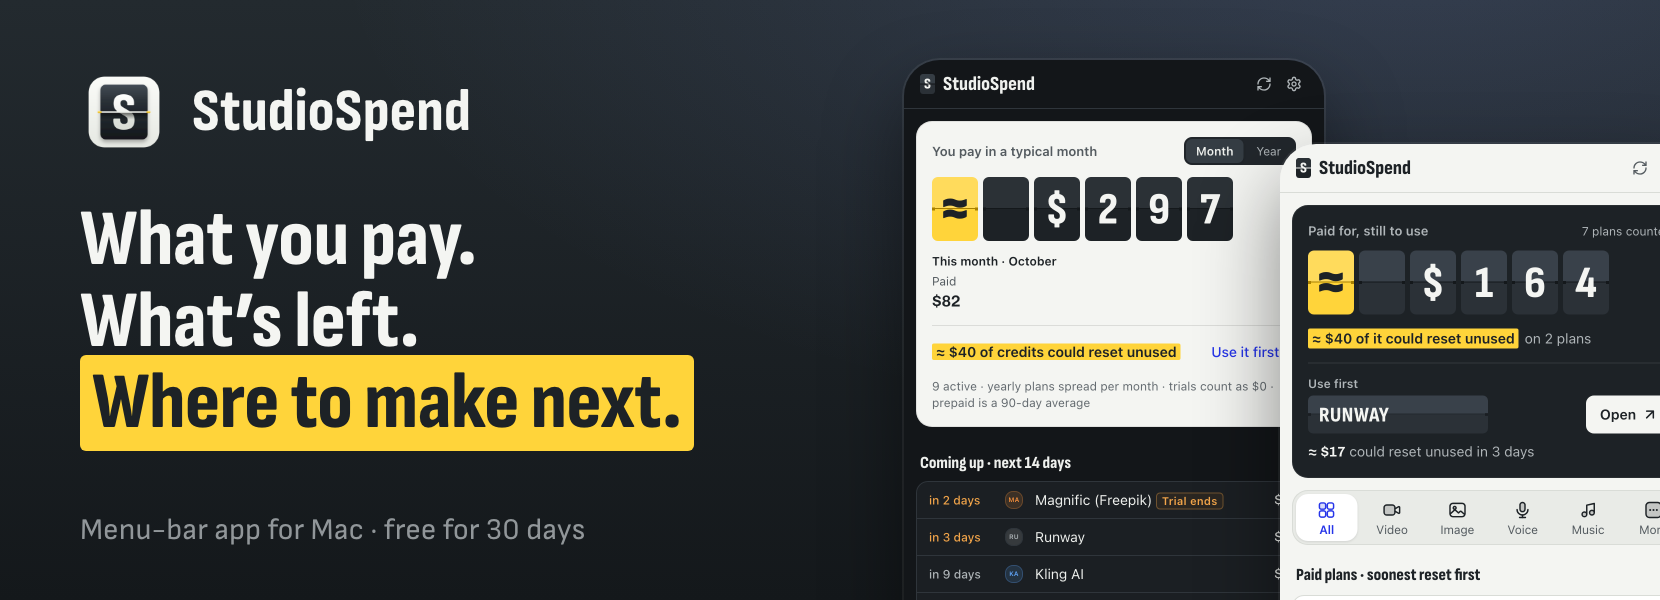
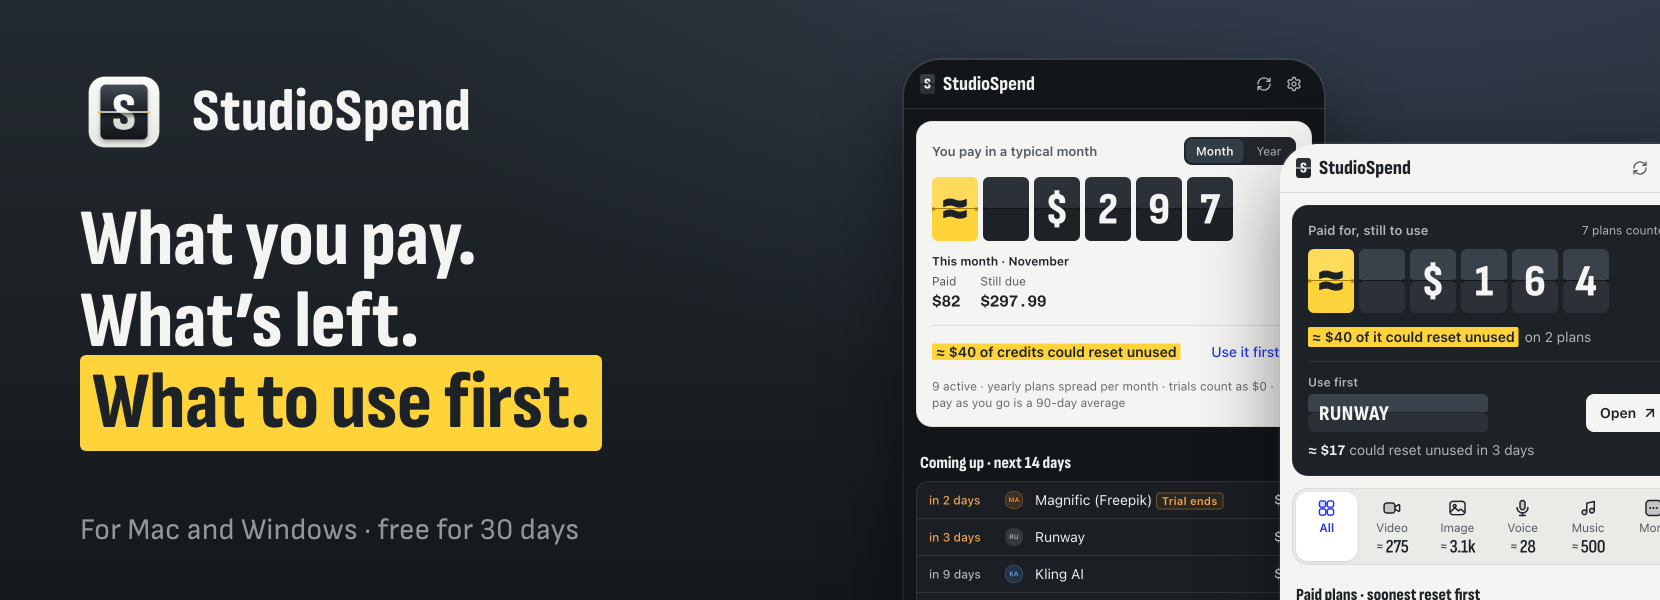
Update the repository page
Built from the private repo's public-repo/ by scripts/public-repo/sync.sh.

diff --git a/README.md b/README.md
@@ -5,8 +5,8 @@
 <h1 align="center">StudioSpend</h1>
 
 <p align="center">
-  <b>What you pay. What’s left. Where to make next.</b><br>
-  The menu-bar and tray app for Mac and Windows that keeps your creative-AI subscriptions straight.
+  <b>What you pay. What’s left. What to use first.</b><br>
+  The menu-bar and tray app for Mac and Windows that keeps your creative subscriptions straight.
 </p>
 
 <p align="center">
@@ -41,7 +41,7 @@
 
 <br>
 
-You pay for five, ten, maybe fifteen creative-AI tools. Each has its own credits, its own renewal date and its own idea of what a credit is. **StudioSpend** adds it all up, shows what is left on each plan in things you can picture, like “about 40 videos”, and tells you where to make your next video, image or track so the credits that are about to expire get used first.
+You pay for five, ten, maybe fifteen creative tools. Each has its own credits, its own renewal date and its own idea of what a credit is. **StudioSpend** adds it all up, shows what is left on each plan in things you can picture, like “about 40 videos”, and tells you which plan to use first, so the credits that are about to expire don’t go to waste. It’s a spending tracker: it makes nothing itself and sells no credits.
 
 ## What it does
 
@@ -72,7 +72,7 @@ You pay for five, ten, maybe fifteen creative-AI tools. Each has its own credits
     <td>
       <h3>Spend</h3>
       <p>Every plan, what it costs per month and per year, and what renews or ends its trial next.</p>
-      <p>Drop in a bank or card statement (CSV, OFX or QFX) and StudioSpend finds your creative-AI charges, including the platforms that have no connection at all. It also points out a smaller plan that would still cover you.</p>
+      <p>Drop in a bank or card statement (CSV, OFX or QFX) and StudioSpend finds your creative-subscription charges, including the platforms that have no connection at all. It also points out a smaller plan that would still cover you.</p>
     </td>
   </tr>
 </table>
@@ -96,7 +96,7 @@ You pay for five, ten, maybe fifteen creative-AI tools. Each has its own credits
 ### Also in the app
 
 - **Alerts.** A notification before credits reset unused, before a plan runs out early, before a renewal or a trial ends, and when you are on track to pass your monthly budget.
-- **Ask Claude.** On a Mac, add StudioSpend to Claude Desktop or Claude Code and ask where to make something. It answers from your own numbers and cannot change anything. [How to add it](docs/claude-connector.md).
+- **Ask Claude.** On a Mac, add StudioSpend to Claude Desktop or Claude Code and ask which plan covers a job. It answers from your own numbers and cannot change anything. [How to add it](docs/claude-connector.md).
 - **Move to another computer.** Your plans, payments and settings in one passphrase-locked file that you carry yourself.
 
 ## Private by design

diff --git a/docs/claude-connector.md b/docs/claude-connector.md
@@ -1,6 +1,6 @@
 # StudioSpend in Claude
 
-Mac only for now. Ask Claude what you have left, what's about to expire, and where to make something, and get an answer from **your own numbers**. Available in StudioSpend **0.3.0 and later**, in Claude Desktop (Mac) and Claude Code.
+Mac only for now. Ask Claude what you have left, what's about to expire, and which plan covers a job, and get an answer from **your own numbers**. Available in StudioSpend **0.3.0 and later**, in Claude Desktop (Mac) and Claude Code.
 
 ## Add it
 
@@ -20,7 +20,7 @@ Mac only for now. Ask Claude what you have left, what's about to expire, and whe
 
 **Where you see the designed card.** In a regular Claude Desktop chat, StudioSpend's answers appear as a card in the chat (what's left, where to make it, what's about to expire). Where Claude doesn't draw cards yet, it shows the same answer as text. In the terminal, Claude Code can only show text.
 
-Claude then generates through that platform's own Claude connector, if you've added it. StudioSpend only advises: **it can't generate, spend or change anything.**
+Claude then hands you to that platform, through its own Claude connector if you've added it. StudioSpend only advises: **it can't generate, spend or change anything.**
 
 ## Privacy
 
